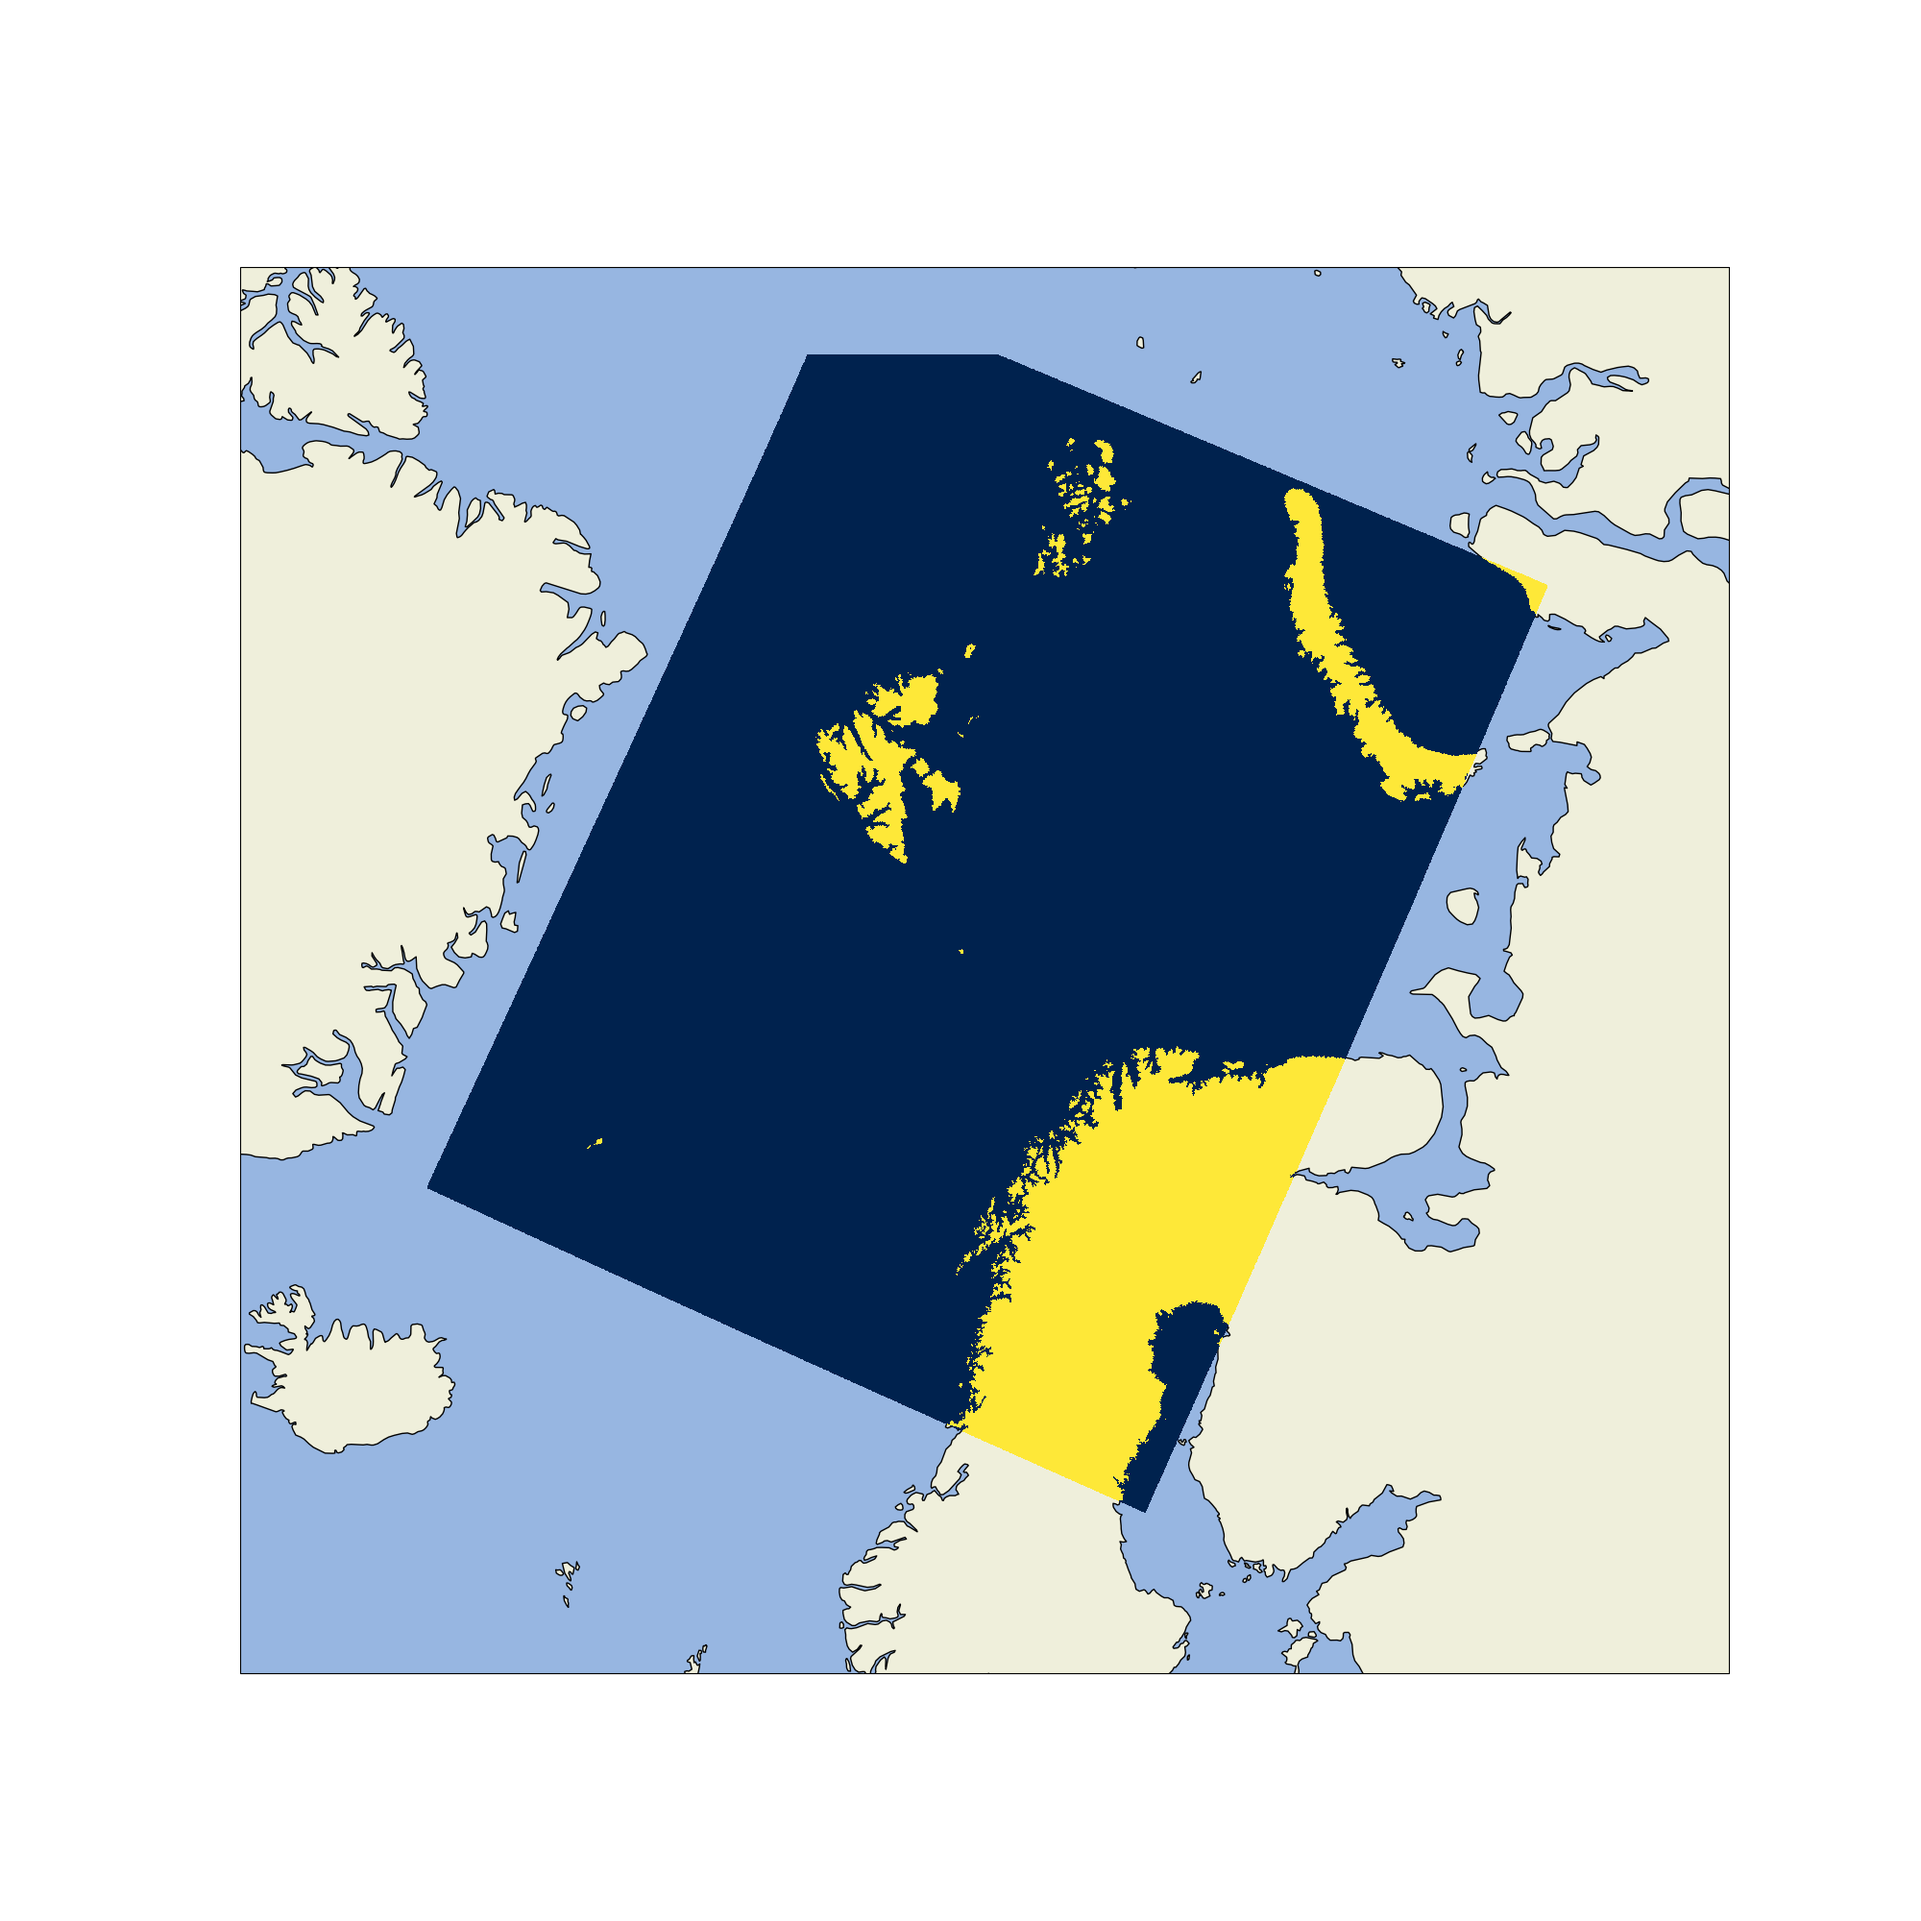
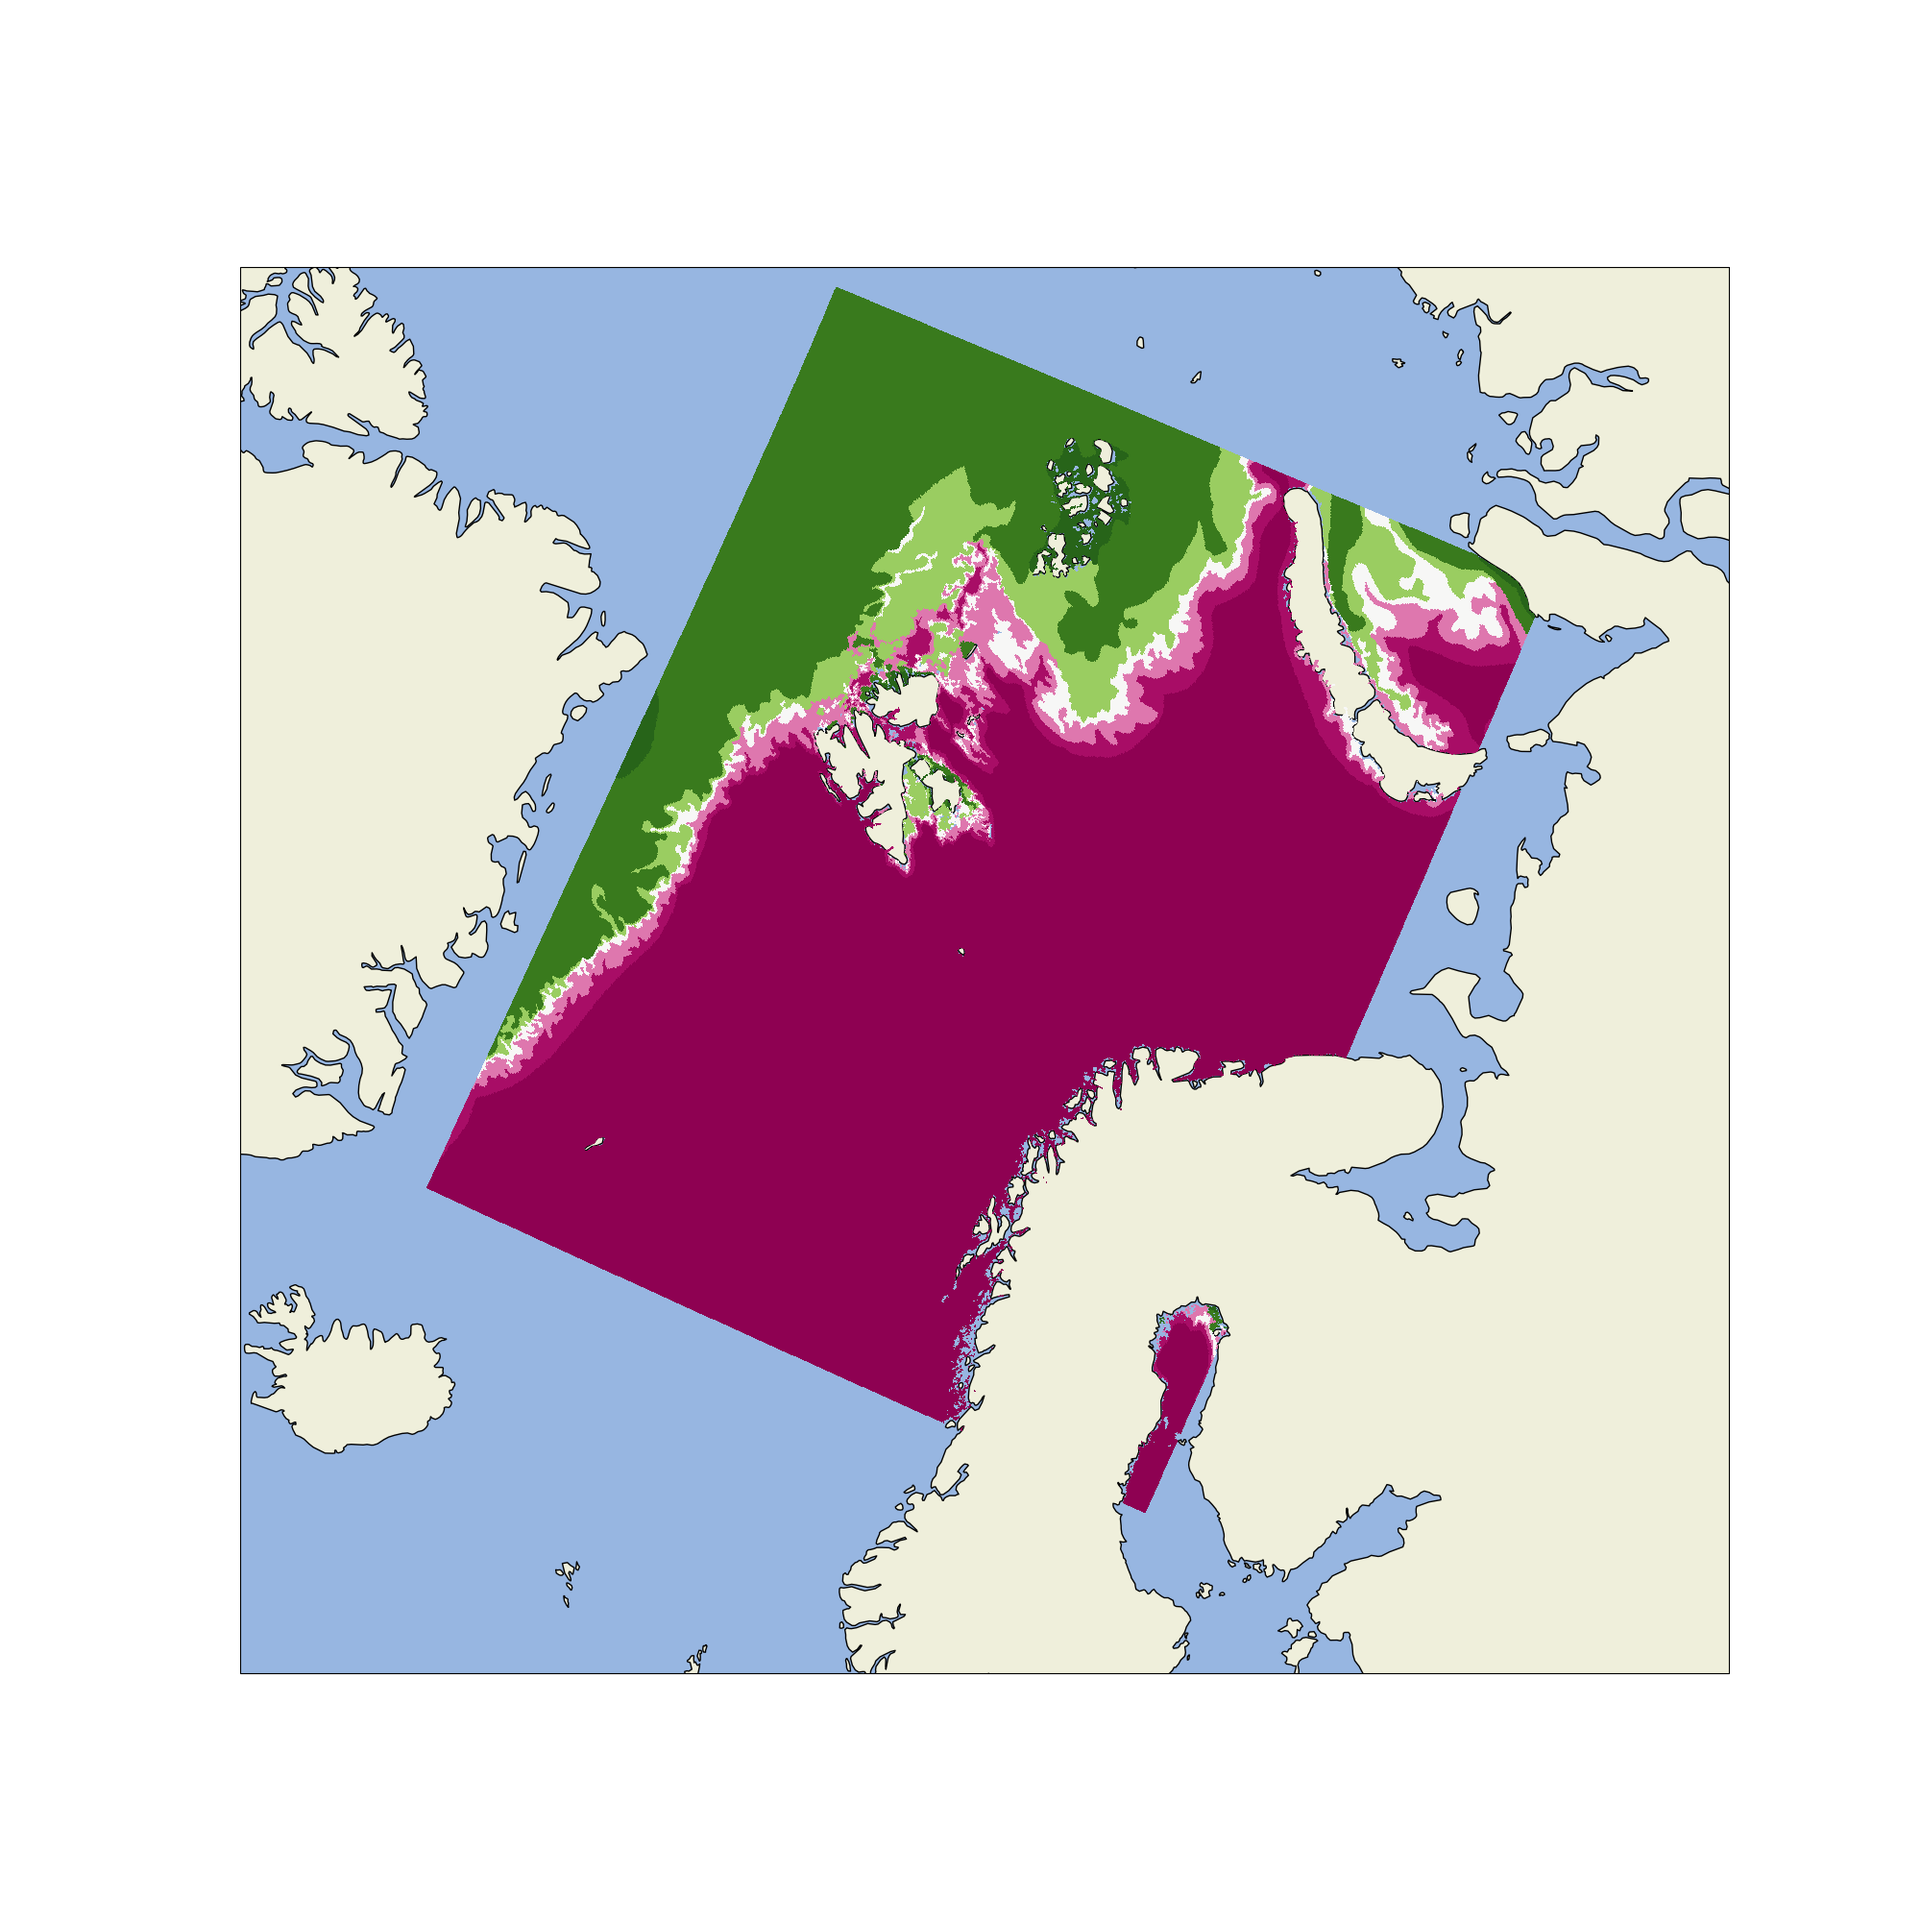
Started structuring dataset hdf5 files

Changed region(s): [[0.217, 0.155, 0.806, 0.806]]

diff --git a/PrepareDataset/createHDF.py b/PrepareDataset/createHDF.py
@@ -8,36 +8,37 @@ from calendar import monthrange
 from netCDF4 import Dataset
 from scipy.interpolate import NearestNDInterpolator
 
+def interpolate_invalid(field):
+    """NN interpolation of NaN areas
 
-def find_nearest(array, value):
-    idx = (np.abs(array - value)).argmin()
-    return idx
+    Args:
+        field (array): 2d field to apply interpolation
 
-
-def extrapolate_border(field):
+    Returns:
+        array: interpolated array
+    """
     mask = np.where(~np.isnan(field))
     interp = NearestNDInterpolator(np.transpose(mask), field[mask])
-    return interp(*np.indices(field.shape))
+    interp_field = interp(*np.indices(field.shape))
+    return np.ma.masked_where(interp_field > 100., interp_field)
 
-
-def runstuff():
-    # Setup data-paths
-    path_IceChart = "/lustre/storeB/project/copernicus/sea_ice/SIW-METNO-ARC-SEAICE_HR-OBS/"
-    path_RegridArome = "/lustre/storeB/users/arefk/MScThesis_AreKvanum2022_SeaIceML/AROME_ARCTIC_regrid/testingdata/" # TODO subject to change
+def main():
+    # setup data-paths
+    path_Arome = "/lustre/storeB/immutable/archive/projects/metproduction/DNMI_AROME_ARCTIC/"
+    path_RegridIceChart = "/lustre/storeB/users/arefk/MScThesis_AreKvanum2022_SeaIceML/ICE_CHART_regrid/Data/"
     path_output = "/lustre/storeB/users/arefk/MScThesis_AreKvanum2022_SeaIceML/PrepareDataset/Data/"
 
     paths = []
     for year in range(2019, 2022):
-        for month in range(1,13):
-            p = f"{path_RegridArome}{year}/{month:02d}/"
+        for month in range(1, 13):
+            p = f"{path_RegridIceChart}{year}/{month:02d}/"
             paths.append(p)
 
-    # path_data_task = paths[$SGE_TASK_ID - 1]
     path_data_task = paths[0]
     print(f"path_data_task = {path_data_task}")
-    year_task = path_data_task[len(path_RegridArome) : len(path_RegridArome) + 4]
+    year_task = path_data_task[len(path_RegridIceChart) : len(path_RegridIceChart) + 4]
     print(f"year_task = {year_task}")
-    month_task = path_data_task[len(path_RegridArome) + 5 : len(path_RegridArome) + 7]
+    month_task = path_data_task[len(path_RegridIceChart) + 5 : len(path_RegridIceChart) + 7]
     print(f"month_task = {month_task}")
     nb_days_task = monthrange(int(year_task), int(month_task))[1]
     print(f"nb_days_task = {nb_days_task}")
@@ -50,67 +51,51 @@ def runstuff():
         print(f"{yyyymmdd}")
 
         try:
-            arome_path = glob.glob(f"{path_data_task}/AROME_ICgrid_{yyyymmdd}T00Z.nc")[0]
-            ic_path = glob.glob(f"{path_IceChart}{year_task}/{month_task}/ice_conc_svalbard_{yyyymmdd}1500.nc")[0]
+            ic_path = glob.glob(f"{path_data_task}ICECHART_AROMEgrid_{yyyymmdd}T1500Z.nc")[0]
+            arome_path = glob.glob(f"{path_Arome}{year_task}/{month_task}/{dd:02d}/arome_arctic_full_2_5km_{yyyymmdd}T00Z.nc")[0]
 
         except IndexError:
             continue
 
-        hdf5_path = f"{path_output}{year_task}/{month_task}/PreparedExtrapolated_{yyyymmdd}.hdf5"
-        
+        hdf5_path = f"{path_output}{year_task}/{month_task}/PreparedNNFilled_{yyyymmdd}.hdf5"
+
         if os.path.exists(hdf5_path):
             os.remove(hdf5_path)
 
-        outfile = h5py.File(hdf5_path, "a")
+        outfile = h5py.File(hdf5_path, 'w-')
+        
+        # Open Ice Chart
+        nc = Dataset(ic_path, 'r')
+        sic = nc.variables['sic'][:]
 
-        nc = Dataset(arome_path, 'r')
-        lat = nc.variables['lat']
-        lon = nc.variables['lon']
 
-        t2m = nc.variables['T2M']
-        sst = nc.variables['SST']
-        xwind = nc.variables['X_wind_10m']
-        ywind = nc.variables['Y_wind_10m']
-        windspeed = nc.variables['10WindSpeed']
-        winddir = nc.variables['10WindDirection']
-        lsmask = nc.variables['LSMASK']
-        oobmask = nc.variables['OutOfBoundsMask']
+        # Open AROME
+        nc_a = Dataset(arome_path, 'r')
+        lat = nc_a.variables['latitude'][:]
+        lon = nc_a.variables['longitude'][:]
+        t2m = nc_a.variables['air_temperature_2m'][:]
 
-        x = nc.variables['x']
-        y = nc.variables['y']
 
-        x_min = x[:].min()
-        x_max = x[:].max()
-        y_min = y[:].min()
-        y_max = y[:].max()
-
-        nc_IC = Dataset(ic_path, 'r')
-        xc = nc_IC.variables['xc'][:]
-        yc = nc_IC.variables['yc'][:]
-
-        xc_min = find_nearest(xc, x_min)
-        xc_max = find_nearest(xc, x_max)
-        yc_min = find_nearest(yc, y_min)
-        yc_max = find_nearest(yc, y_max)
-
-        sic = nc_IC['ice_concentration'][..., yc_min:yc_max, xc_min:xc_max]
-
+        # Write to HDF5
         outfile[f"lat"] = lat[:]
         outfile[f"lon"] = lon[:]
-        outfile[f"sic"] = sic[0]
-        outfile[f"sst"] = extrapolate_border(sst[0])
-        outfile[f"lsmask"] = extrapolate_border(lsmask[0])
-        outfile[f"oobmask"] = oobmask[0]
+        outfile[f"sic"] = np.ma.filled(interpolate_invalid(sic[:]), np.nan)
 
-        for day in range(3):   # Arome Regrid contain 3 days
+        # Three daily AA means
+        for day in range(3):
             key = f"day{day}"
+            start = day*24
+            stop = start + 24 if day != 2 else None
 
-            outfile[f"{key}/t2m"] = extrapolate_border(t2m[day])        
+            outfile[f"{key}/t2m"] = np.mean(t2m[start:stop, 0, :, :], axis=0)
 
 
-        nc_IC.close()
-        nc.close()
         outfile.close()
+        nc.close()
+        nc_a.close()
+
+        exit()
+
 
 if __name__ == "__main__":
-    runstuff()
+    main()

diff --git a/PrepareDataset/bak/bak_createHDF.py b/PrepareDataset/bak/bak_createHDF.py
@@ -1,0 +1,116 @@
+import glob
+import h5py
+import os
+
+import numpy as np
+
+from calendar import monthrange
+from netCDF4 import Dataset
+from scipy.interpolate import NearestNDInterpolator
+
+
+def find_nearest(array, value):
+    idx = (np.abs(array - value)).argmin()
+    return idx
+
+
+def extrapolate_border(field):
+    mask = np.where(~np.isnan(field))
+    interp = NearestNDInterpolator(np.transpose(mask), field[mask])
+    return interp(*np.indices(field.shape))
+
+
+def runstuff():
+    # Setup data-paths
+    path_IceChart = "/lustre/storeB/project/copernicus/sea_ice/SIW-METNO-ARC-SEAICE_HR-OBS/"
+    path_RegridArome = "/lustre/storeB/users/arefk/MScThesis_AreKvanum2022_SeaIceML/AROME_ARCTIC_regrid/testingdata/" # TODO subject to change
+    path_output = "/lustre/storeB/users/arefk/MScThesis_AreKvanum2022_SeaIceML/PrepareDataset/Data/"
+
+    paths = []
+    for year in range(2019, 2022):
+        for month in range(1,13):
+            p = f"{path_RegridArome}{year}/{month:02d}/"
+            paths.append(p)
+
+    # path_data_task = paths[$SGE_TASK_ID - 1]
+    path_data_task = paths[0]
+    print(f"path_data_task = {path_data_task}")
+    year_task = path_data_task[len(path_RegridArome) : len(path_RegridArome) + 4]
+    print(f"year_task = {year_task}")
+    month_task = path_data_task[len(path_RegridArome) + 5 : len(path_RegridArome) + 7]
+    print(f"month_task = {month_task}")
+    nb_days_task = monthrange(int(year_task), int(month_task))[1]
+    print(f"nb_days_task = {nb_days_task}")
+
+    if not os.path.isdir(f"{path_output}{year_task}/{month_task}"):
+        os.makedirs(f"{path_output}{year_task}/{month_task}")
+
+    for dd in range(1, nb_days_task + 1):
+        yyyymmdd = f"{year_task}{month_task}{dd:02d}"
+        print(f"{yyyymmdd}")
+
+        try:
+            arome_path = glob.glob(f"{path_data_task}/AROME_ICgrid_{yyyymmdd}T00Z.nc")[0]
+            ic_path = glob.glob(f"{path_IceChart}{year_task}/{month_task}/ice_conc_svalbard_{yyyymmdd}1500.nc")[0]
+
+        except IndexError:
+            continue
+
+        hdf5_path = f"{path_output}{year_task}/{month_task}/PreparedExtrapolated_{yyyymmdd}.hdf5"
+        
+        if os.path.exists(hdf5_path):
+            os.remove(hdf5_path)
+
+        outfile = h5py.File(hdf5_path, "a")
+
+        nc = Dataset(arome_path, 'r')
+        lat = nc.variables['lat']
+        lon = nc.variables['lon']
+
+        t2m = nc.variables['T2M']
+        sst = nc.variables['SST']
+        xwind = nc.variables['X_wind_10m']
+        ywind = nc.variables['Y_wind_10m']
+        windspeed = nc.variables['10WindSpeed']
+        winddir = nc.variables['10WindDirection']
+        lsmask = nc.variables['LSMASK']
+        oobmask = nc.variables['OutOfBoundsMask']
+
+        x = nc.variables['x']
+        y = nc.variables['y']
+
+        x_min = x[:].min()
+        x_max = x[:].max()
+        y_min = y[:].min()
+        y_max = y[:].max()
+
+        nc_IC = Dataset(ic_path, 'r')
+        xc = nc_IC.variables['xc'][:]
+        yc = nc_IC.variables['yc'][:]
+
+        xc_min = find_nearest(xc, x_min)
+        xc_max = find_nearest(xc, x_max)
+        yc_min = find_nearest(yc, y_min)
+        yc_max = find_nearest(yc, y_max)
+
+        sic = nc_IC['ice_concentration'][..., yc_min:yc_max, xc_min:xc_max]
+
+        outfile[f"lat"] = lat[:]
+        outfile[f"lon"] = lon[:]
+        outfile[f"sic"] = sic[0]
+        outfile[f"sst"] = extrapolate_border(sst[0])
+        outfile[f"lsmask"] = extrapolate_border(lsmask[0])
+        outfile[f"oobmask"] = oobmask[0]
+
+        for day in range(3):   # Arome Regrid contain 3 days
+            key = f"day{day}"
+
+            outfile[f"{key}/t2m"] = extrapolate_border(t2m[day])        
+
+
+        nc_IC.close()
+        nc.close()
+        outfile.close()
+
+if __name__ == "__main__":
+    runstuff()

diff --git a/PrepareDataset/bak/bak_validateHDF.py b/PrepareDataset/bak/bak_validateHDF.py
@@ -8,9 +8,13 @@ from matplotlib import pyplot as plt
 from cartopy import crs as ccrs
 from cartopy import feature as cfeature
 
-def main():
+
+def runstuff():
     path = "/lustre/storeB/users/arefk/MScThesis_AreKvanum2022_SeaIceML/PrepareDataset/Data/2019/01/"
     path_figures = "/lustre/storeB/users/arefk/MScThesis_AreKvanum2022_SeaIceML/PrepareDataset/figures/"
+
+    if not os.path.exists(path_figures):
+        os.mkdir(path_figures)
 
     map_proj = ccrs.NorthPolarStereo()
     data_proj = ccrs.PlateCarree()
@@ -19,10 +23,14 @@ def main():
     
     f = h5py.File(h5file, 'r')
 
-    lat = f['lat'][:]
-    lon = f['lon'][:]
-    t2m = f['day1']['t2m'][:]
-    sic = f['sic'][:]
+    lat = f['lat']
+    lon = f['lon']
+    t2m = f['day1']['t2m']
+    sic = f['sic']
+    oob = f['oobmask']
+    lsmask = f['lsmask']
+    sst = f['sst']
+
 
     fig = plt.figure(figsize=(20,20))
     ax = plt.axes(projection=map_proj)
@@ -31,13 +39,12 @@ def main():
     ax.add_feature(cfeature.LAND, zorder=1, edgecolor='black')
     # ax.add_feature(cfeature.LAND, zorder=3, edgecolor='black', facecolor='none')
 
-    # ax.pcolormesh(lon, lat, t2m, transform = data_proj, zorder=3, alpha=.4)
-    ax.pcolormesh(lon, lat, sic, transform=data_proj, zorder=2, cmap=plt.colormaps['PiYG'])
+    # ax.pcolormesh(lon, lat, t2m, transform = data_proj, zorder=3, alpha=.7)
+    # ax.pcolormesh(lon, lat, sic, transform=data_proj, zorder=2, cmap=plt.colormaps['PiYG'])
+    ax.pcolormesh(lon, lat, lsmask, transform=data_proj, zorder=2, cmap=plt.colormaps['cividis'], alpha=1.)
 
     plt.savefig(f"{path_figures}visual_validate.png")
-
-
-
+    
 
 if __name__ == "__main__":
-    main()
+    runstuff()
